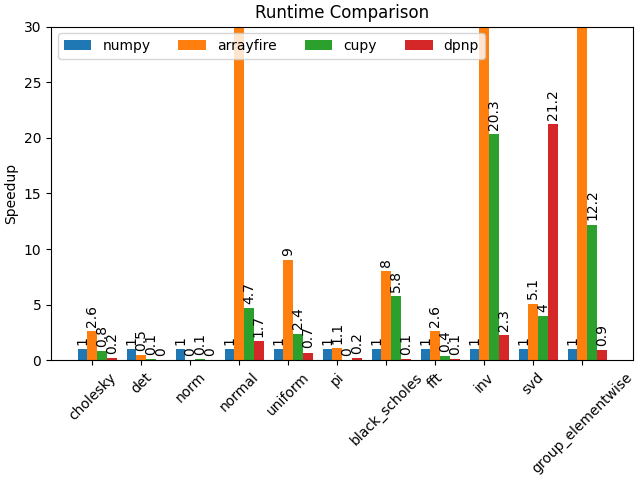
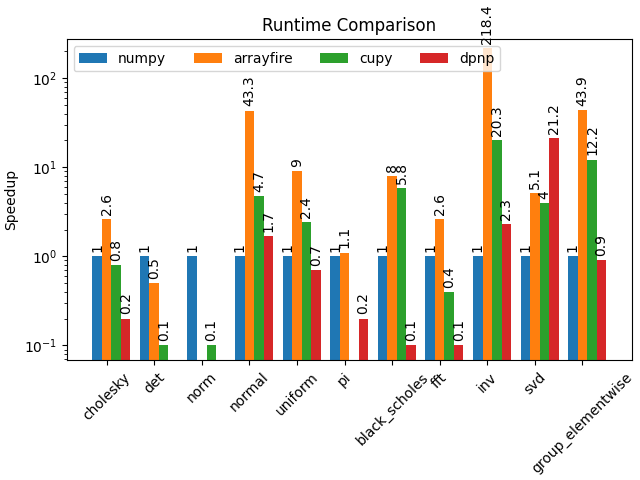
Made yscale logarithmic

diff --git a/graphs.py b/graphs.py
@@ -90,9 +90,10 @@ def generate_group_graph(test_list = None, show_numbers = False):
         multiplier += 1
 
     ax.set_ylabel('Speedup')
+    ax.set_yscale('log')
     ax.set_title('Runtime Comparison')
     ax.set_xticks(x + width, tests, rotation=45)
-    ax.set_ylim([0.0, min(30, max_val * 1.25)])
+    ax.set_ylim([0.0, max_val * 1.25])
     ax.legend(loc='upper left', ncols=len(PKG_NAMES))
 
     fig.savefig("img/comparison.png")
